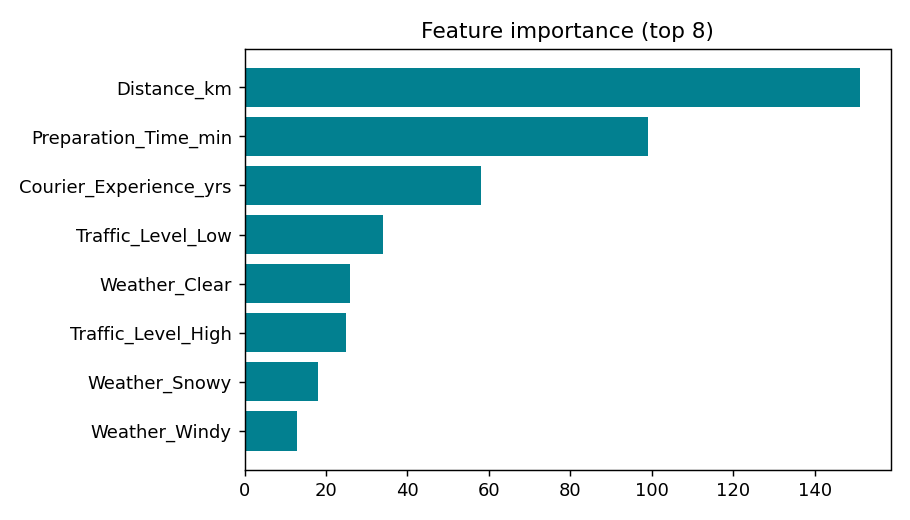
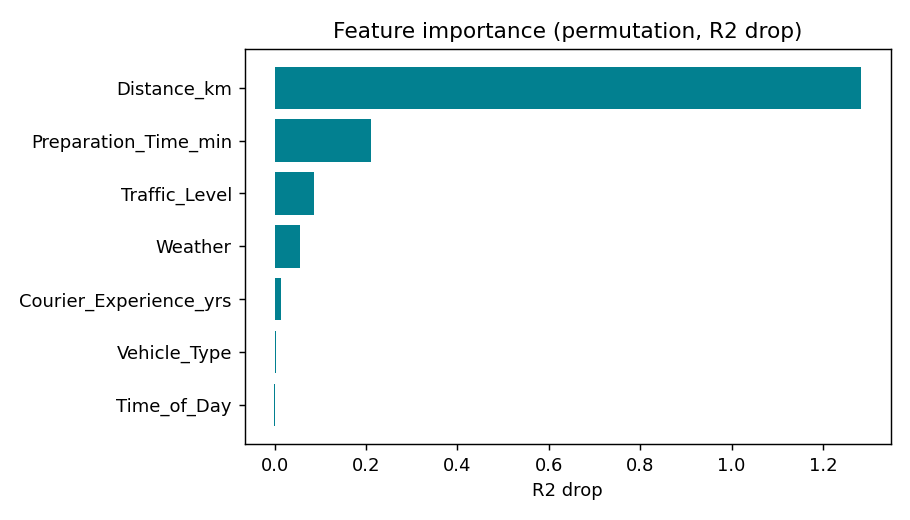
update docs and slides with improved metrics and ui screenshot

Changed region(s): [[0.0308, 0.1231, 0.9846, 0.9538], [0.3692, 0.0308, 0.8923, 0.0923]]

diff --git a/docs/build_slides.py b/docs/build_slides.py
@@ -1,4 +1,5 @@
 """Build the SUML presentation deck (slides.pptx). Run: python docs/build_slides.py"""
+
 from __future__ import annotations
 
 from pathlib import Path
@@ -40,8 +41,22 @@ def slide(bg=LIGHT, motif=True):
     return s
 
 
-def text(s, left, top, width, height, lines, size=16, color=DARK, bold=False,
-         font=BODY, align=PP_ALIGN.LEFT, anchor=MSO_ANCHOR.TOP, bullet=False, space=8):
+def text(
+    s,
+    left,
+    top,
+    width,
+    height,
+    lines,
+    size=16,
+    color=DARK,
+    bold=False,
+    font=BODY,
+    align=PP_ALIGN.LEFT,
+    anchor=MSO_ANCHOR.TOP,
+    bullet=False,
+    space=8,
+):
     box = s.shapes.add_textbox(Inches(left), Inches(top), Inches(width), Inches(height))
     tf = box.text_frame
     tf.word_wrap = True
@@ -67,8 +82,9 @@ def title(s, label, color=NAVY):
 
 
 def rrect(s, left, top, width, height, fill, line=None):
-    shp = s.shapes.add_shape(MSO_SHAPE.ROUNDED_RECTANGLE, Inches(left), Inches(top),
-                             Inches(width), Inches(height))
+    shp = s.shapes.add_shape(
+        MSO_SHAPE.ROUNDED_RECTANGLE, Inches(left), Inches(top), Inches(width), Inches(height)
+    )
     shp.fill.solid()
     shp.fill.fore_color.rgb = fill
     if line is None:
@@ -132,21 +148,49 @@ def panel(s, left, top, width, height, header, lines):
 s = slide(NAVY, motif=False)
 rrect(s, 0, 0, 0.32, 7.5, TEAL)
 text(s, 0.9, 2.3, 11.5, 1.4, "Food Delivery ETA", size=54, color=WHITE, bold=True, font=HEAD)
-text(s, 0.9, 3.7, 11.5, 0.9,
-     "Predykcja czasu dostawy jedzenia — AutoML, FastAPI, Streamlit, Docker",
-     size=22, color=ICE, font=BODY)
-text(s, 0.9, 5.5, 11.5, 0.5, "SUML — Środowiska uruchomieniowe ML · PJATK",
-     size=16, color=WHITE, bold=True, font=BODY)
+text(
+    s,
+    0.9,
+    3.7,
+    11.5,
+    0.9,
+    "Predykcja czasu dostawy jedzenia — AutoML, FastAPI, Streamlit, Docker",
+    size=22,
+    color=ICE,
+    font=BODY,
+)
+text(
+    s,
+    0.9,
+    5.5,
+    11.5,
+    0.5,
+    "SUML — Środowiska uruchomieniowe ML · PJATK",
+    size=16,
+    color=WHITE,
+    bold=True,
+    font=BODY,
+)
 text(s, 0.9, 6.0, 11.5, 0.5, "Grupa: [numery indeksów]", size=15, color=ICE, font=BODY)
 
 # --- Slide 2: problem ---
 s = slide()
 title(s, "Problem i wartość biznesowa")
-text(s, 0.7, 1.9, 6.6, 4.6, [
-    "Platformy dostaw (Wolt, Glovo, Uber Eats) potrzebują trafnego ETA już w momencie zamówienia.",
-    "Dobre ETA = realne oczekiwania klienta, sprawniejsza dyspozycja kurierów i wczesne flagowanie opóźnień.",
-    "Aplikacja przewiduje czas dostawy (regresja) na podstawie cech zamówienia, trasy i kontekstu.",
-], size=17, bullet=True, space=14)
+text(
+    s,
+    0.7,
+    1.9,
+    6.6,
+    4.6,
+    [
+        "Platformy dostaw (Wolt, Glovo, Uber Eats) potrzebują trafnego ETA już w momencie zamówienia.",
+        "Dobre ETA = realne oczekiwania klienta, sprawniejsza dyspozycja kurierów i wczesne flagowanie opóźnień.",
+        "Aplikacja przewiduje czas dostawy (regresja) na podstawie cech zamówienia, trasy i kontekstu.",
+    ],
+    size=17,
+    bullet=True,
+    space=14,
+)
 s_img = IMG / "distance_vs_time.png"
 if s_img.exists():
     s.shapes.add_picture(str(s_img), Inches(7.6), Inches(2.1), width=Inches(5.2))
@@ -154,12 +198,22 @@ if s_img.exists():
 # --- Slide 3: data ---
 s = slide()
 title(s, "Dane")
-text(s, 0.7, 1.9, 6.6, 4.6, [
-    "Źródło: Kaggle denkuznetz/food-delivery-time-prediction (1000 wierszy, 9 kolumn).",
-    "CSV dołączony do repo + generator danych syntetycznych o tym samym schemacie (fallback).",
-    "Braki: po 30 w 4 kolumnach → imputacja w pipeline (mediana / najczęstsza wartość).",
-    "Cel: czas dostawy 8–153 min (średnio ~57).",
-], size=16, bullet=True, space=12)
+text(
+    s,
+    0.7,
+    1.9,
+    6.6,
+    4.6,
+    [
+        "Źródło: Kaggle denkuznetz/food-delivery-time-prediction (1000 wierszy, 9 kolumn).",
+        "CSV dołączony do repo + generator danych syntetycznych o tym samym schemacie (fallback).",
+        "Braki: po 30 w 4 kolumnach → imputacja w pipeline (mediana / najczęstsza wartość).",
+        "Cel: czas dostawy 8–153 min (średnio ~57).",
+    ],
+    size=16,
+    bullet=True,
+    space=12,
+)
 t_img = IMG / "target_hist.png"
 if t_img.exists():
     s.shapes.add_picture(str(t_img), Inches(7.7), Inches(2.2), width=Inches(5.0))
@@ -195,7 +249,9 @@ for (name, desc), x in zip(boxes, xs):
         r3.font.name = BODY
         r3.font.color.rgb = DARK
 for ax in (4.45, 8.45):
-    arr = s.shapes.add_shape(MSO_SHAPE.RIGHT_ARROW, Inches(ax), Inches(3.35), Inches(0.4), Inches(0.5))
+    arr = s.shapes.add_shape(
+        MSO_SHAPE.RIGHT_ARROW, Inches(ax), Inches(3.35), Inches(0.4), Inches(0.5)
+    )
     arr.fill.solid()
     arr.fill.fore_color.rgb = TEAL
     arr.line.fill.background()
@@ -216,12 +272,22 @@ r.font.color.rgb = WHITE
 # --- Slide 5: AutoML ---
 s = slide()
 title(s, "Model: AutoML (FLAML)")
-text(s, 0.7, 1.9, 6.6, 4.6, [
-    "AutoML.fit przeszukuje estymatory (lgbm, rf, extra_tree) w zadanym budżecie czasu.",
-    "Cały preprocessing + model zapisany jako jeden sklearn Pipeline (model.joblib).",
-    "Imputacja + one-hot w pipeline → spójność trening / serwowanie, bez wycieków.",
-    "Konfiguracja AutoML w config.yaml (budżet, metryka, lista estymatorów).",
-], size=16, bullet=True, space=12)
+text(
+    s,
+    0.7,
+    1.9,
+    6.6,
+    4.6,
+    [
+        "AutoML.fit przeszukuje estymatory (lgbm, rf, extra_tree) i składa je w ensemble (stacking).",
+        "Cały preprocessing + model zapisany jako jeden sklearn Pipeline (model.joblib).",
+        "Imputacja + one-hot w pipeline → spójność trening / serwowanie, bez wycieków.",
+        "Konfiguracja AutoML w config.yaml (budżet, metryka, lista estymatorów).",
+    ],
+    size=16,
+    bullet=True,
+    space=12,
+)
 f_img = IMG / "feat_importance.png"
 if f_img.exists():
     s.shapes.add_picture(str(f_img), Inches(7.6), Inches(2.2), width=Inches(5.2))
@@ -229,41 +295,75 @@ if f_img.exists():
 # --- Slide 6: results ---
 s = slide()
 title(s, "Wyniki modelu")
-card(s, 0.9, 2.5, 3.6, 2.2, "6,4", "MAE (minuty)")
-card(s, 4.85, 2.5, 3.6, 2.2, "9,3", "RMSE")
-card(s, 8.8, 2.5, 3.6, 2.2, "0,81", "R²")
-text(s, 0.9, 5.1, 11.5, 0.8,
-     "Najlepszy estymator: LightGBM · ocena na 20% zbiorze testowym · najważniejsza cecha: dystans.",
-     size=16, color=MUTED, align=PP_ALIGN.CENTER)
+card(s, 0.9, 2.5, 3.6, 2.2, "6,1", "MAE (minuty)")
+card(s, 4.85, 2.5, 3.6, 2.2, "9,0", "RMSE")
+card(s, 8.8, 2.5, 3.6, 2.2, "0,82", "R²")
+text(
+    s,
+    0.9,
+    5.1,
+    11.5,
+    0.8,
+    "Model: FLAML ensemble (baza LightGBM) · ocena na 20% holdout · najważniejsza cecha: dystans.",
+    size=16,
+    color=MUTED,
+    align=PP_ALIGN.CENTER,
+)
 
 # --- Slide 7: serving ---
 s = slide()
 title(s, "Wystawienie: API + UI")
-panel(s, 0.8, 2.0, 5.7, 4.2, "FastAPI (usługa)", [
-    "POST /predict — predykcja ETA (minuty)",
-    "GET /health — status + czy model wczytany",
-    "GET /model-info — metryki i metadane",
-    "Interaktywne /docs (OpenAPI) za darmo",
-    "Walidacja wejścia Pydantic → 422 dla błędnych danych",
-])
-panel(s, 6.8, 2.0, 5.7, 4.2, "Streamlit (UI)", [
-    "Formularz cech zamówienia",
-    "Woła API i pokazuje przewidziany czas",
-    "Panel z metrykami modelu",
-    "Wykres ważności cech",
-    "Konfigurowalny adres API (env / config)",
-])
+panel(
+    s,
+    0.8,
+    2.0,
+    5.7,
+    4.2,
+    "FastAPI (usługa)",
+    [
+        "POST /predict — predykcja ETA (minuty)",
+        "GET /health — status + czy model wczytany",
+        "GET /model-info — metryki i metadane",
+        "Interaktywne /docs (OpenAPI) za darmo",
+        "Walidacja wejścia Pydantic → 422 dla błędnych danych",
+    ],
+)
+panel(
+    s,
+    6.8,
+    2.0,
+    5.7,
+    4.2,
+    "Streamlit (UI)",
+    [
+        "Formularz cech zamówienia",
+        "Woła API i pokazuje przewidziany czas",
+        "Panel z metrykami modelu",
+        "Wykres ważności cech",
+        "Konfigurowalny adres API (env / config)",
+    ],
+)
 
 # --- Slide 8: portability ---
 s = slide()
 title(s, "Przenoszalność i odtwarzalność")
-text(s, 0.7, 1.9, 7.2, 4.6, [
-    "docker compose up --build → dwa serwisy: api (FastAPI) + ui (Streamlit).",
-    "Model trenowany podczas budowania obrazu — gotowy przy pierwszym żądaniu.",
-    "Zależności przypięte (requirements.txt); obraz python:3.11-slim, użytkownik non-root.",
-    "Zero konfiguracji systemu operacyjnego; .gitattributes wymusza końce linii LF.",
-    "config.yaml jako jedno źródło prawdy.",
-], size=16, bullet=True, space=11)
+text(
+    s,
+    0.7,
+    1.9,
+    7.2,
+    4.6,
+    [
+        "docker compose up --build → dwa serwisy: api (FastAPI) + ui (Streamlit).",
+        "Model trenowany podczas budowania obrazu — gotowy przy pierwszym żądaniu.",
+        "Zależności przypięte (requirements.txt); obraz python:3.11-slim, użytkownik non-root.",
+        "Zero konfiguracji systemu operacyjnego; .gitattributes wymusza końce linii LF.",
+        "config.yaml jako jedno źródło prawdy.",
+    ],
+    size=16,
+    bullet=True,
+    space=11,
+)
 banner = rrect(s, 8.3, 2.4, 4.2, 2.4, TEAL)
 tf = banner.text_frame
 tf.word_wrap = True
@@ -285,21 +385,42 @@ title(s, "Jakość kodu i organizacja")
 card(s, 0.9, 2.4, 3.6, 2.0, "10/10", "pylint")
 card(s, 4.85, 2.4, 3.6, 2.0, "26", "testów (pytest)")
 card(s, 8.8, 2.4, 3.6, 2.0, "CI", "GitHub Actions")
-text(s, 0.7, 4.8, 12.0, 1.8, [
-    "PEP8 + black + isort, type hints i docstringi w całym kodzie.",
-    "Ścisły podział data | model | app; modularność na poziomie funkcji i katalogów.",
-    "Czytelna historia commitów; spec i plan w docs/.",
-], size=16, bullet=True, space=10)
+text(
+    s,
+    0.7,
+    4.8,
+    12.0,
+    1.8,
+    [
+        "PEP8 + black + isort, type hints i docstringi w całym kodzie.",
+        "Ścisły podział data | model | app; modularność na poziomie funkcji i katalogów.",
+        "Czytelna historia commitów; spec i plan w docs/.",
+    ],
+    size=16,
+    bullet=True,
+    space=10,
+)
 
 # --- Slide 10: demo + closing (dark) ---
 s = slide(NAVY, motif=False)
 rrect(s, 0, 0, 0.32, 7.5, TEAL)
 title(s, "Demo i podsumowanie", color=WHITE)
-text(s, 0.9, 1.9, 11.4, 4.0, [
-    "Demo: docker compose up --build → UI :8501, API :8000/docs → predykcja na żywo.",
-    "Retraining: nowy CSV w data/raw/ + python -m model.train (bez zmian w kodzie).",
-    "Repo: github.com/nimzoi/SUML-project",
-], size=18, color=ICE, bullet=True, space=14)
+text(
+    s,
+    0.9,
+    1.9,
+    11.4,
+    4.0,
+    [
+        "Demo: docker compose up --build → UI :8501, API :8000/docs → predykcja na żywo.",
+        "Retraining: nowy CSV w data/raw/ + python -m model.train (bez zmian w kodzie).",
+        "Repo: github.com/nimzoi/SUML-project",
+    ],
+    size=18,
+    color=ICE,
+    bullet=True,
+    space=14,
+)
 text(s, 0.9, 6.0, 11.4, 0.8, "Dziękujemy — pytania?", size=24, color=WHITE, bold=True, font=HEAD)
 
 prs.save("slides.pptx")

diff --git a/README.md b/README.md
@@ -14,7 +14,7 @@ Delivery platforms (Wolt / Glovo / Uber Eats style) need an accurate ETA at orde
 time to set customer expectations, dispatch couriers, and flag orders at risk of
 being late. This project trains a regression model that estimates delivery time
 from distance, weather, traffic, preparation time, and courier experience, and
-exposes it through a `/predict` endpoint. Baseline: **MAE ≈ 6.4 min, R² ≈ 0.81**.
+exposes it through a `/predict` endpoint. Baseline: **MAE ≈ 6.1 min, R² ≈ 0.82**.
 
 ## Architecture
 
@@ -82,6 +82,8 @@ docker compose up --build
 The dataset is committed and the model is trained during the image build, so this
 runs end-to-end on real data with no manual steps.
 
+![Streamlit UI](docs/img/ui.png)
+
 ## Run natively (without Docker)
 
 ```bash
@@ -100,7 +102,7 @@ Single source of truth, validated on load. Key sections:
 - `data` — dataset path, synthetic-generation toggle + size + seed, target,
   numeric/categorical feature lists, test split.
 - `model` — AutoML task, `time_budget_s`, metric, `estimator_list`
-  (`lgbm`, `rf`, `extra_tree`), artifact paths, seed. **This is the AutoML config.**
+  (`lgbm`, `rf`, `extra_tree`), `ensemble` (stacking), artifact paths, seed. **This is the AutoML config.**
 - `api` / `ui` — host/port and the API URL the UI calls.
 
 ## Data
@@ -126,7 +128,7 @@ code changes. The app picks up the new artifact on restart.
   "preparation_time_min": 12, "courier_experience_yrs": 2.0 }
 ```
 
-→ `{ "eta_minutes": 44.9 }`  *(example value)*
+→ `{ "eta_minutes": 44.6 }`  *(example value)*
 
 - `GET /health` → `{ "status": "ok", "model_loaded": true }`
 - `GET /model-info` → metrics + metadata (best estimator, training date, data source,

diff --git a/docs/data_card.md b/docs/data_card.md
@@ -35,7 +35,7 @@ them identically.
 ![Distance vs delivery time](img/distance_vs_time.png)
 
 ## Baseline model
-FLAML AutoML (best estimator: **LightGBM**) on a 20% holdout:
-**MAE ≈ 6.4 min · RMSE ≈ 9.3 · R² ≈ 0.81.** Top features: distance, preparation time, courier
-experience, traffic level. Live values are written to `model/artifacts/metrics.json` after
+FLAML AutoML with a stacked ensemble (base estimator: **LightGBM**) on a 20% holdout:
+**MAE ≈ 6.1 min · RMSE ≈ 9.0 · R² ≈ 0.82.** Top features (permutation importance): distance,
+preparation time, traffic, weather. Live values are written to `model/artifacts/metrics.json` after
 training and served at `GET /model-info`.